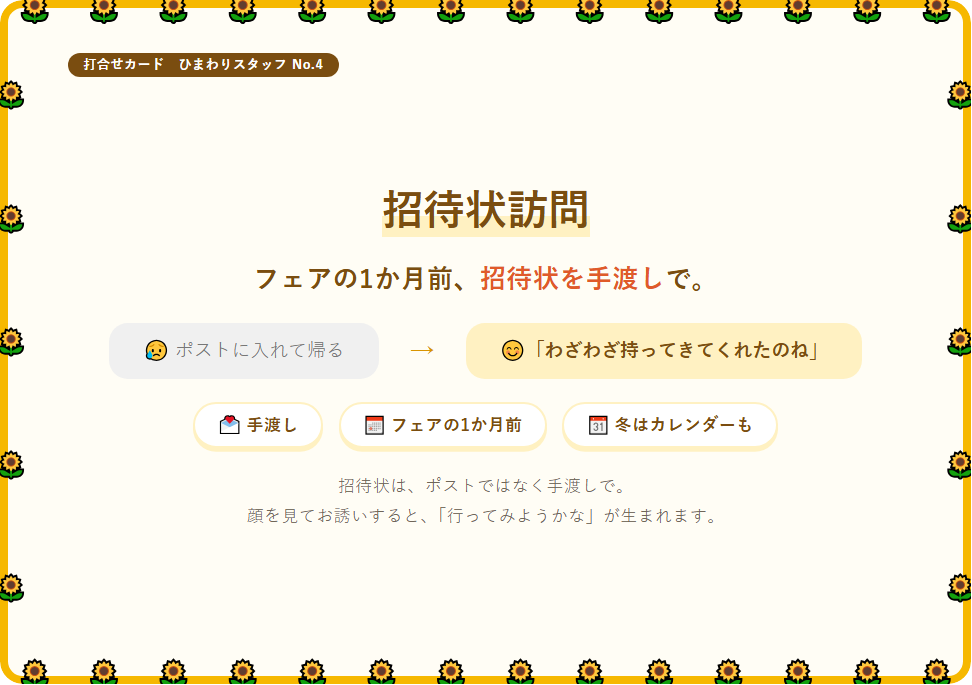
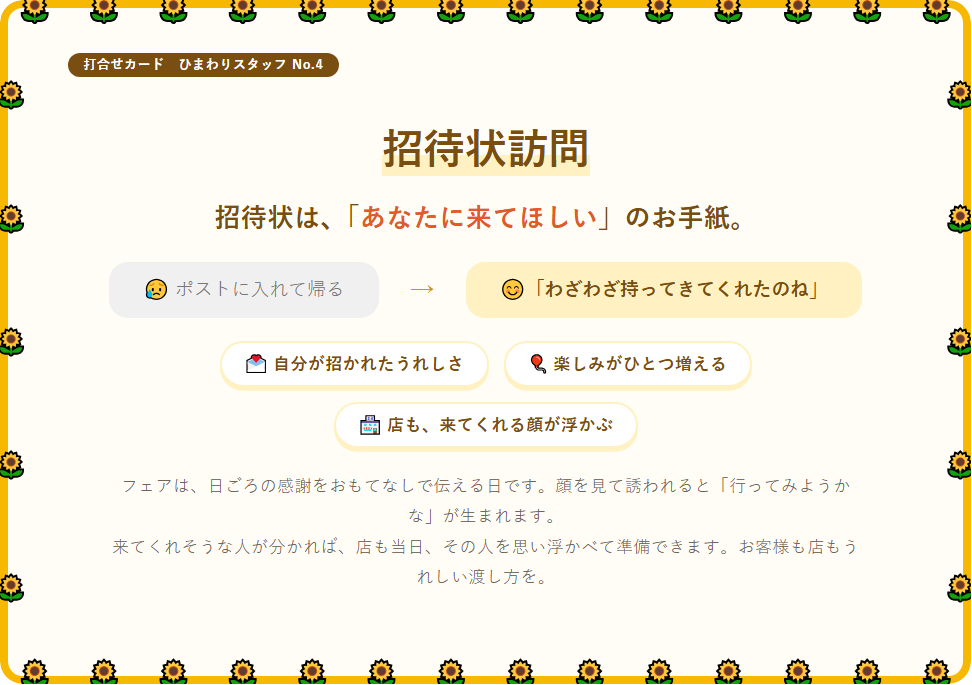
カードを「肝」に：招待状訪問を書き直し、工事No.7 エアコン取付を追加
Claude-Session: https://claude.ai/code/session_01SZNrdcyrN7aKEt1o21LvYk

diff --git a/card-koji-7.html b/card-koji-7.html
@@ -1,0 +1,138 @@
+<!DOCTYPE html>
+<html lang="ja">
+<head>
+<meta charset="UTF-8">
+<meta name="viewport" content="width=1010">
+<title>打合せカード7 エアコン取付｜ヤハタ電機商会</title>
+<meta property="og:type" content="website">
+<meta property="og:title" content="工事スタッフカード　エアコン取付">
+<meta property="og:description" content="エアコンは、10年いっしょに暮らす家族の一員。">
+<meta property="og:image" content="https://yahatadennki.github.io/report/img/card-koji-7.png">
+<meta property="og:url" content="https://yahatadennki.github.io/report/card-koji-7.html">
+<meta name="twitter:card" content="summary_large_image">
+<style>
+  :root{--ink:#3a2a10;--soft:#6f6658;--frame:#4f9a3a;--accent:#3b7d2b;--leaf:#4f8a2b;--brown:#2b5a1e;--paper:#f8fcf5;--bg:#e5f3dc;--tint:#dcefd2;--softbg:#ecf7e6}
+  *{box-sizing:border-box}
+  body{margin:0;background:var(--bg);color:var(--ink);font-family:"Hiragino Maru Gothic ProN","Hiragino Kaku Gothic ProN","Yu Gothic",system-ui,sans-serif;line-height:1.55}
+  .page{width:257mm;height:181mm;margin:14px auto;position:relative;background:var(--paper);border-radius:6mm;box-shadow:0 3px 16px rgba(0,0,0,.12);padding:14mm 18mm 12mm;overflow:hidden;display:flex;flex-direction:column}
+  .frame{position:absolute;inset:0;pointer-events:none;border:2.2mm solid var(--frame);border-radius:6mm}
+  .row-f{position:absolute;left:0;right:0;display:flex;justify-content:space-around;font-size:7.5mm;line-height:1}
+  .row-f.t{top:-1.2mm} .row-f.b{bottom:-1.4mm}
+  .col-f{position:absolute;top:9mm;bottom:9mm;display:flex;flex-direction:column;justify-content:space-around;font-size:7mm;line-height:1}
+  .col-f.l{left:-1.4mm} .col-f.r{right:-1.4mm}
+  .top{display:flex;justify-content:space-between;align-items:center;font-size:3.4mm}
+  .top .no{background:var(--brown);color:#fff;border-radius:999px;padding:.5mm 4mm;font-weight:700;letter-spacing:.06em}
+  .side{display:inline-block;color:#fff;border-radius:999px;font-weight:800;letter-spacing:.12em;padding:.6mm 5mm;font-size:3.6mm}
+  .side.why{background:#ff7a59} .side.how{background:var(--accent)} .side.what{background:var(--leaf)}
+  .front{flex:1;display:flex;flex-direction:column;align-items:center;justify-content:center;text-align:center;gap:6mm}
+  .front h1{margin:0;font-size:11mm;line-height:1.3;color:var(--brown)}
+  .front h1 em{font-style:normal;background:linear-gradient(transparent 60%,var(--tint) 60%)}
+  .front .msg{font-size:7mm;font-weight:800;line-height:1.5;color:var(--brown);margin:0}
+  .front .msg b{color:#e05a2a}
+  .vs{display:flex;gap:8mm;align-items:center}
+  .vs div{border-radius:5mm;padding:4mm 9mm;font-size:5mm;line-height:1.4}
+  .vs .ng{background:#f0f0f0;color:#777} .vs .ok{background:var(--tint);color:var(--brown);font-weight:800}
+  .vs .ar{font-size:7mm;color:var(--accent);padding:0;background:none}
+  .front .one{font-size:4.6mm;color:var(--soft);margin:0;line-height:1.75;max-width:200mm}
+  .back{flex:1;display:grid;grid-template-columns:1fr 1fr;gap:7mm;margin-top:5mm}
+  .box{background:#fff;border:.5mm solid var(--tint);border-radius:5mm;padding:6mm 7mm;display:flex;flex-direction:column}
+  .box h2{margin:2.5mm 0 4mm;font-size:6.2mm;line-height:1.35;color:var(--brown)}
+  .talk{background:var(--softbg);border-radius:3.5mm;padding:3mm 4.5mm;font-size:4.4mm;font-weight:700;color:var(--brown);line-height:1.7;margin:0 0 4mm}
+  ul{margin:0 0 2mm;padding-left:5.5mm}
+  li{font-size:4.4mm;margin:0 0 2.2mm}
+  li b{color:var(--brown)}
+  .memo{border:.7mm dashed var(--leaf);border-radius:4mm;padding:4mm 5mm;background:#f3faea;margin:0 0 4.5mm}
+  .memo b{font-size:5mm;color:var(--leaf)}
+  .memo p{margin:1.5mm 0 0;font-size:4.2mm}
+  .gt{font-size:4.2mm;font-weight:700;margin:0 0 1.5mm}
+  .chips{display:flex;gap:4mm;flex-wrap:wrap;justify-content:center}
+  .chips span{background:#fff;border:.6mm solid var(--tint);border-radius:999px;padding:2mm 6mm;font-size:4.6mm;font-weight:700;color:var(--brown);box-shadow:0 1mm 0 var(--tint)}
+  .roles{display:flex;flex-direction:column;gap:3mm}
+  .role{display:flex;gap:4mm;align-items:center;border-radius:4mm;padding:3mm 4mm;background:var(--rc)}
+  .role .e{font-size:9mm;line-height:1;flex:0 0 auto}
+  .role .n{font-size:4.8mm;font-weight:800;color:var(--rk)}
+  .role .x{font-size:4.1mm;line-height:1.5;color:#3a2a10}
+  .roles.sm{gap:2mm}
+  .roles.sm .role{padding:1.8mm 4mm;gap:3mm}
+  .roles.sm .e{font-size:6.5mm}
+  .roles.sm .n{font-size:4.2mm}
+  .roles.sm .x{font-size:3.7mm;line-height:1.35}
+  .role-ar{text-align:center;font-size:3.8mm;font-weight:700;color:var(--accent);margin:-1mm 0}
+  .ag{flex:1;margin-top:5mm;display:grid;grid-template-columns:1fr 1fr;grid-template-rows:auto 1fr 1fr;gap:5mm 7mm}
+  .ag-h{grid-column:1/-1;margin:0;font-size:6.4mm;color:var(--brown)}
+  .ag-it{background:#fff;border:.6mm solid var(--tint);border-radius:5mm;padding:4mm 6mm;display:flex;flex-direction:column}
+  .ag-t{font-size:5.4mm;font-weight:800;color:var(--brown);display:flex;align-items:center;gap:3mm;margin:0 0 2mm}
+  .ag-no{flex:0 0 auto;width:7.5mm;height:7.5mm;border-radius:50%;background:var(--accent);color:#fff;font-size:4.2mm;display:flex;align-items:center;justify-content:center}
+  .ag-ln{border-bottom:.4mm dashed #c9b49a;flex:1;min-height:9mm}
+  .ag-total{font-size:4.6mm;font-weight:700;margin:0 0 2mm}
+  .ag-blank{display:inline-block;width:28mm;border-bottom:.5mm solid #888;margin:0 2mm}
+  .ag-ku{display:grid;grid-template-columns:repeat(5,1fr);gap:2mm}
+  .ag-ku div{border:.4mm solid #ddd;border-radius:2mm;padding:1mm 2mm;display:flex;flex-direction:column;align-items:center}
+  .ag-ku b{font-size:3.6mm;color:var(--brown)} .ag-ku span{display:block;height:6.5mm}
+  .ag-two{display:flex;flex-direction:column;gap:3mm;flex:1;justify-content:space-around}
+  .ag-two div{font-size:5mm;font-weight:700;display:flex;align-items:flex-end;gap:2mm}
+  .ag-two span{flex:1;border-bottom:.5mm solid #888;height:8mm}
+  .vals{list-style:none;padding:0;margin:0}
+  .vals.sm li{font-size:3.9mm;margin:0 0 1.6mm;padding:1.5mm 3.5mm}
+  .vals li{font-size:4.4mm;margin:0 0 3mm;padding:2.4mm 4mm;background:var(--softbg);border-radius:3.5mm}
+  .print-btn{position:fixed;right:16px;bottom:16px;z-index:99;font-family:inherit;font-size:15px;font-weight:700;padding:12px 22px;border:none;border-radius:999px;background:var(--accent);color:#fff;box-shadow:0 3px 12px rgba(0,0,0,.25);cursor:pointer}
+  .hint{text-align:center;font-size:13px;color:var(--soft);margin:10px 0 0}
+  .hint a{color:var(--brown)}
+  @media print{
+    @page{size:257mm 182mm;margin:0}
+    body{background:#fff}
+    .page{margin:0;box-shadow:none;border-radius:0;page-break-after:always}
+    .page:last-of-type{page-break-after:auto}
+    .print-btn,.hint{display:none}
+    *{-webkit-print-color-adjust:exact;print-color-adjust:exact}
+  }
+</style>
+</head>
+<body>
+<p class="hint">B5よこ・両面印刷（短辺とじ）。1枚目が表、2枚目が裏です。　<a href="cards.html">目次へ</a></p>
+
+<div class="page">
+  <div class="frame"></div>
+  <div class="row-f t"><span>⚙</span><span>⚙</span><span>⚙</span><span>⚙</span><span>⚙</span><span>⚙</span><span>⚙</span><span>⚙</span><span>⚙</span><span>⚙</span><span>⚙</span><span>⚙</span><span>⚙</span><span>⚙</span></div>
+  <div class="row-f b"><span>⚙</span><span>⚙</span><span>⚙</span><span>⚙</span><span>⚙</span><span>⚙</span><span>⚙</span><span>⚙</span><span>⚙</span><span>⚙</span><span>⚙</span><span>⚙</span><span>⚙</span><span>⚙</span></div>
+  <div class="col-f l"><span>⚙</span><span>⚙</span><span>⚙</span><span>⚙</span><span>⚙</span></div>
+  <div class="col-f r"><span>⚙</span><span>⚙</span><span>⚙</span><span>⚙</span><span>⚙</span></div>
+
+  <div class="top"><span class="no">打合せカード　工事スタッフ No.7</span><span></span></div>
+  <div class="front">
+    <h1><em>エアコン取付</em></h1>
+    <p class="msg">エアコンは、<b>10年いっしょに暮らす</b>家族の一員。</p>
+    <div class="vs"><div class="ng">😥「部屋が汚れたまま…」</div><div class="ar">→</div><div class="ok">😊「あなたに来てもらえてよかった」</div></div>
+    <div class="chips"><span>🏠 自分の家のように</span><span>✨ 見えるところも、見えないところも</span><span>🔟 10年後も、気持ちよく</span></div>
+    <p class="one">エアコンが売れたから付けに行く、ではありません。工事の出来が、これから10年の夏と冬を決めます。<br>配管の見た目、壁の穴、帰ったあとの部屋。お客様は全部見ています。次も「ヤハタさんに」と言ってもらえる工事を。</p>
+  </div>
+</div>
+
+<div class="page">
+  <div class="frame"></div>
+  <div class="row-f t"><span>⚙</span><span>⚙</span><span>⚙</span><span>⚙</span><span>⚙</span><span>⚙</span><span>⚙</span><span>⚙</span><span>⚙</span><span>⚙</span><span>⚙</span><span>⚙</span><span>⚙</span><span>⚙</span></div>
+  <div class="row-f b"><span>⚙</span><span>⚙</span><span>⚙</span><span>⚙</span><span>⚙</span><span>⚙</span><span>⚙</span><span>⚙</span><span>⚙</span><span>⚙</span><span>⚙</span><span>⚙</span><span>⚙</span><span>⚙</span></div>
+  <div class="col-f l"><span>⚙</span><span>⚙</span><span>⚙</span><span>⚙</span><span>⚙</span></div>
+  <div class="col-f r"><span>⚙</span><span>⚙</span><span>⚙</span><span>⚙</span><span>⚙</span></div>
+
+  <div class="top"><span class="no">打合せカード　工事スタッフ No.7　エアコン取付</span><span></span></div>
+  <div class="back">
+    <div class="box">
+      <h2>どんな工事が、喜ばれる？</h2>
+      <div class="roles"><div class="role" style="--rc:#d9ebfa;--rk:#164a7a"><span class="e">🗣</span><div><div class="n">始める前に、一緒に決める</div><div class="x">どこに付けて、配管をどう通すか。お客様と見ながら決めてから始める</div></div></div><div class="role" style="--rc:#dcefd2;--rk:#2b5a1e"><span class="e">📐</span><div><div class="n">見た目まで仕上げる</div><div class="x">配管とカバーはまっすぐ。穴はきれいにふさぐ。毎日目に入る場所だから</div></div></div><div class="role" style="--rc:#fff1c2;--rk:#7a4d10"><span class="e">🧹</span><div><div class="n">来たときより、きれいに</div><div class="x">養生して、ほこりもビス1本も残さず帰る</div></div></div><div class="role" style="--rc:#e8dcf7;--rk:#4a2a78"><span class="e">✅</span><div><div class="n">一緒に動かして、安心を渡す</div><div class="x">冷房・暖房を一緒に確かめて、使い方とお手入れを伝える</div></div></div></div>
+
+    </div>
+    <div class="box">
+      <h2>することは</h2>
+      <div class="memo"><b>📘 準備と作業の手順は「エアコン取付工事 手順書」へ</b><p>準備編・作業編。真空引きや締め付けは手順書どおりに。</p></div>
+      <ul class="vals"><li>📷 作業前と後の写真を撮る</li><li>🙋 迷ったら、お客様に聞いてから進める</li><li>☎「何かあれば、いつでも」で終わる</li></ul>
+
+    </div>
+  </div>
+</div>
+
+<button class="print-btn" onclick="window.print()">🖨 印刷する（B5よこ・両面）</button>
+<script>/* og-shot：プレビュー画像を撮るときは表だけ */if(/[?&]og/.test(location.search)){document.documentElement.classList.add("og");}</script>
+<style>.og body{background:#fff}.og .hint,.og .print-btn{display:none}.og .page{margin:0;box-shadow:none}.og .page+.page{display:none}</style>
+</body>
+</html>

diff --git a/tools/cards-data.js b/tools/cards-data.js
@@ -567,17 +567,17 @@ module.exports = [
         vals:['📝 点検の結果と聞いたことを記録','📅 次の点検の時期を伝えて帰る'] }
 },
 { no:4, who:'himawari', title:'招待状訪問',
-  why:{ msg:'フェアの1か月前、<b>招待状を手渡し</b>で。',
+  why:{ msg:'招待状は、「<b>あなたに来てほしい</b>」のお手紙。',
         ng:'😥 ポストに入れて帰る', ok:'😊「わざわざ持ってきてくれたのね」',
-        chips:['💌 手渡し','📅 フェアの1か月前','📆 冬はカレンダーも'],
-        one:'招待状は、ポストではなく手渡しで。<br>顔を見てお誘いすると、「行ってみようかな」が生まれます。' },
-  how:{ h:'届けるときに',
-        roles:[ {ic:'💌',n:'手渡しする',t:'「今度のフェアのご招待に来ました」',bg:'#fff1c2',k:'#7a4d10'},
-                {ic:'🎪',n:'楽しみを伝える',t:'ゲームや焼きそばなど、当日の楽しいことをひとつ',bg:'#d9ebfa',k:'#164a7a'},
-                {ic:'📆',n:'冬はカレンダーも',t:'冬フェアの招待状と一緒に届ける',bg:'#dcefd2',k:'#2b5a1e'} ] },
-  what:{ h:'毎回やること',
-        memo:['🙋「来てくださいね！」で終わる','売り込みはしない。お誘いだけ。'],
-        vals:['📝 来られそうかどうかを、順路帳に書く','🔁 前回の続きから話す','📦 留守ならポストに、ひと言メモを添えて'] }
+        chips:['💌 自分が招かれたうれしさ','🎈 楽しみがひとつ増える','🏪 店も、来てくれる顔が浮かぶ'],
+        one:'フェアは、日ごろの感謝をおもてなしで伝える日です。顔を見て誘われると「行ってみようかな」が生まれます。<br>来てくれそうな人が分かれば、店も当日、その人を思い浮かべて準備できます。お客様も店もうれしい渡し方を。' },
+  how:{ h:'どう渡したら、喜ばれる？',
+        roles:[ {ic:'🙋',n:'名前で、その人に',t:'「〇〇さんに来てほしくて」。みんなに配るチラシではなく、その人への招待に',bg:'#fff1c2',k:'#7a4d10'},
+                {ic:'🎈',n:'その人が楽しめることをひとつ',t:'お孫さんと遊べるゲーム、焼きそば…。その人に合う楽しみを伝える',bg:'#dcefd2',k:'#2b5a1e'},
+                {ic:'👂',n:'来られそうか、聞いておく',t:'無理に誘わない。来られそうな人が分かると、店の準備が変わる',bg:'#d9ebfa',k:'#164a7a'} ] },
+  what:{ h:'することは',
+        memo:['📘 配り方と段取りは「招待状訪問」ガイドへ','面談（A・B・E）とポスティング（C・D）、配り終える日。'],
+        vals:['🙅 売り込みはしない。お誘いだけ','📝 来られそうかを、順路帳に','🙋「来てくださいね！」で終わる'] }
 },
 { no:5, who:'himawari', title:'アンケート訪問',
   why:{ msg:'フェアとフェアの間は、<b>アンケート</b>を持って。',
@@ -773,6 +773,20 @@ module.exports = [
   what:{ h:'めざす仕事',
         memo:['📅 約束の日に、約束どおり、きちんと終わらせる','帰ったあとも、安心が残る仕事を。'],
         vals:['🏠 お客様は、私たちを信じて、予定を空けて待っています'] }
+},
+{ no:7, who:'koji', title:'エアコン取付',
+  why:{ msg:'エアコンは、<b>10年いっしょに暮らす</b>家族の一員。',
+        ng:'😥「部屋が汚れたまま…」', ok:'😊「あなたに来てもらえてよかった」',
+        chips:['🏠 自分の家のように','✨ 見えるところも、見えないところも','🔟 10年後も、気持ちよく'],
+        one:'エアコンが売れたから付けに行く、ではありません。工事の出来が、これから10年の夏と冬を決めます。<br>配管の見た目、壁の穴、帰ったあとの部屋。お客様は全部見ています。次も「ヤハタさんに」と言ってもらえる工事を。' },
+  how:{ h:'どんな工事が、喜ばれる？',
+        roles:[ {ic:'🗣',n:'始める前に、一緒に決める',t:'どこに付けて、配管をどう通すか。お客様と見ながら決めてから始める',bg:'#d9ebfa',k:'#164a7a'},
+                {ic:'📐',n:'見た目まで仕上げる',t:'配管とカバーはまっすぐ。穴はきれいにふさぐ。毎日目に入る場所だから',bg:'#dcefd2',k:'#2b5a1e'},
+                {ic:'🧹',n:'来たときより、きれいに',t:'養生して、ほこりもビス1本も残さず帰る',bg:'#fff1c2',k:'#7a4d10'},
+                {ic:'✅',n:'一緒に動かして、安心を渡す',t:'冷房・暖房を一緒に確かめて、使い方とお手入れを伝える',bg:'#e8dcf7',k:'#4a2a78'} ] },
+  what:{ h:'することは',
+        memo:['📘 準備と作業の手順は「エアコン取付工事 手順書」へ','準備編・作業編。真空引きや締め付けは手順書どおりに。'],
+        vals:['📷 作業前と後の写真を撮る','🙋 迷ったら、お客様に聞いてから進める','☎「何かあれば、いつでも」で終わる'] }
 },
 { no:6, who:'koji', title:'トワレ取付',
   why:{ msg:'トワレを替えるのは、<b>毎日の安心と気持ちよさ</b>のため。',

diff --git a/card-himawari-4.html b/card-himawari-4.html
@@ -6,7 +6,7 @@
 <title>打合せカード4 招待状訪問｜ヤハタ電機商会</title>
 <meta property="og:type" content="website">
 <meta property="og:title" content="ひまわりスタッフカード　招待状訪問">
-<meta property="og:description" content="フェアの1か月前、招待状を手渡しで。">
+<meta property="og:description" content="招待状は、「あなたに来てほしい」のお手紙。">
 <meta property="og:image" content="https://yahatadennki.github.io/report/img/card-himawari-4.png">
 <meta property="og:url" content="https://yahatadennki.github.io/report/card-himawari-4.html">
 <meta name="twitter:card" content="summary_large_image">
@@ -101,10 +101,10 @@
   <div class="top"><span class="no">打合せカード　ひまわりスタッフ No.4</span><span></span></div>
   <div class="front">
     <h1><em>招待状訪問</em></h1>
-    <p class="msg">フェアの1か月前、<b>招待状を手渡し</b>で。</p>
+    <p class="msg">招待状は、「<b>あなたに来てほしい</b>」のお手紙。</p>
     <div class="vs"><div class="ng">😥 ポストに入れて帰る</div><div class="ar">→</div><div class="ok">😊「わざわざ持ってきてくれたのね」</div></div>
-    <div class="chips"><span>💌 手渡し</span><span>📅 フェアの1か月前</span><span>📆 冬はカレンダーも</span></div>
-    <p class="one">招待状は、ポストではなく手渡しで。<br>顔を見てお誘いすると、「行ってみようかな」が生まれます。</p>
+    <div class="chips"><span>💌 自分が招かれたうれしさ</span><span>🎈 楽しみがひとつ増える</span><span>🏪 店も、来てくれる顔が浮かぶ</span></div>
+    <p class="one">フェアは、日ごろの感謝をおもてなしで伝える日です。顔を見て誘われると「行ってみようかな」が生まれます。<br>来てくれそうな人が分かれば、店も当日、その人を思い浮かべて準備できます。お客様も店もうれしい渡し方を。</p>
   </div>
 </div>
 
@@ -118,14 +118,14 @@
   <div class="top"><span class="no">打合せカード　ひまわりスタッフ No.4　招待状訪問</span><span></span></div>
   <div class="back">
     <div class="box">
-      <h2>届けるときに</h2>
-      <div class="roles"><div class="role" style="--rc:#fff1c2;--rk:#7a4d10"><span class="e">💌</span><div><div class="n">手渡しする</div><div class="x">「今度のフェアのご招待に来ました」</div></div></div><div class="role" style="--rc:#d9ebfa;--rk:#164a7a"><span class="e">🎪</span><div><div class="n">楽しみを伝える</div><div class="x">ゲームや焼きそばなど、当日の楽しいことをひとつ</div></div></div><div class="role" style="--rc:#dcefd2;--rk:#2b5a1e"><span class="e">📆</span><div><div class="n">冬はカレンダーも</div><div class="x">冬フェアの招待状と一緒に届ける</div></div></div></div>
+      <h2>どう渡したら、喜ばれる？</h2>
+      <div class="roles"><div class="role" style="--rc:#fff1c2;--rk:#7a4d10"><span class="e">🙋</span><div><div class="n">名前で、その人に</div><div class="x">「〇〇さんに来てほしくて」。みんなに配るチラシではなく、その人への招待に</div></div></div><div class="role" style="--rc:#dcefd2;--rk:#2b5a1e"><span class="e">🎈</span><div><div class="n">その人が楽しめることをひとつ</div><div class="x">お孫さんと遊べるゲーム、焼きそば…。その人に合う楽しみを伝える</div></div></div><div class="role" style="--rc:#d9ebfa;--rk:#164a7a"><span class="e">👂</span><div><div class="n">来られそうか、聞いておく</div><div class="x">無理に誘わない。来られそうな人が分かると、店の準備が変わる</div></div></div></div>
 
     </div>
     <div class="box">
-      <h2>毎回やること</h2>
-      <div class="memo"><b>🙋「来てくださいね！」で終わる</b><p>売り込みはしない。お誘いだけ。</p></div>
-      <ul class="vals"><li>📝 来られそうかどうかを、順路帳に書く</li><li>🔁 前回の続きから話す</li><li>📦 留守ならポストに、ひと言メモを添えて</li></ul>
+      <h2>することは</h2>
+      <div class="memo"><b>📘 配り方と段取りは「招待状訪問」ガイドへ</b><p>面談（A・B・E）とポスティング（C・D）、配り終える日。</p></div>
+      <ul class="vals"><li>🙅 売り込みはしない。お誘いだけ</li><li>📝 来られそうかを、順路帳に</li><li>🙋「来てくださいね！」で終わる</li></ul>
 
     </div>
   </div>

diff --git a/cards.html b/cards.html
@@ -52,7 +52,7 @@
     </div>
   </section>
   <section id="koji" style="--f:#4f9a3a;--bg:#dcefd2">
-    <h2><span class="ic">⚙</span>工事スタッフ<span class="cnt">6枚</span></h2>
+    <h2><span class="ic">⚙</span>工事スタッフ<span class="cnt">7枚</span></h2>
     <div class="list">
       <a class="ci" href="card-koji-1.html"><span class="n">No.1</span><span class="t">片付け　工具編</span></a>
       <a class="ci" href="card-koji-2.html"><span class="n">No.2</span><span class="t">片付け　材料編</span></a>
@@ -60,6 +60,7 @@
       <a class="ci" href="card-koji-4.html"><span class="n">No.4</span><span class="t">納品の手順</span></a>
       <a class="ci" href="card-koji-5.html"><span class="n">No.5</span><span class="t">写真の撮り方</span></a>
       <a class="ci" href="card-koji-6.html"><span class="n">No.6</span><span class="t">トワレ取付</span></a>
+      <a class="ci" href="card-koji-7.html"><span class="n">No.7</span><span class="t">エアコン取付</span></a>
     </div>
   </section>
   <section id="service" style="--f:#3d8fd6;--bg:#d9ebfa">

diff --git a/manual.html b/manual.html
@@ -770,7 +770,7 @@
   <!-- cards:koji -->
   <div class="pchips">
     <p class="pchips__t">🃏 打合せカード</p>
-    <div class="pchips__row"><span class="pchips__h">⚙ 工事</span><a href="card-koji-1.html">片付け　工具編</a><a href="card-koji-2.html">片付け　材料編</a><a href="card-koji-3.html">作業準備</a><a href="card-koji-5.html">写真の撮り方</a><a href="card-koji-6.html">トワレ取付</a></div>
+    <div class="pchips__row"><span class="pchips__h">⚙ 工事</span><a href="card-koji-1.html">片付け　工具編</a><a href="card-koji-2.html">片付け　材料編</a><a href="card-koji-3.html">作業準備</a><a href="card-koji-5.html">写真の撮り方</a><a href="card-koji-6.html">トワレ取付</a><a href="card-koji-7.html">エアコン取付</a></div>
   </div>
   <!-- /cards:koji -->
 

diff --git a/staff-koji.html b/staff-koji.html
@@ -61,6 +61,7 @@
 
   <p class="sec">🧰 毎回の段取り <small>打合せカード</small></p>
   <div class="grid">
+      <a class="item card" href="card-koji-7.html"><span class="ic">❄</span><span><b>エアコン取付</b><span>打合せカード（なんのために）</span></span></a>
       <a class="item card" href="card-koji-3.html"><span class="ic">🎒</span><span><b>作業準備</b><span>打合せカード</span></span></a>
       <a class="item card" href="card-koji-5.html"><span class="ic">📷</span><span><b>写真の撮り方</b><span>打合せカード</span></span></a>
       <a class="item card" href="card-koji-4.html"><span class="ic">📦</span><span><b>納品の手順</b><span>打合せカード</span></span></a>
